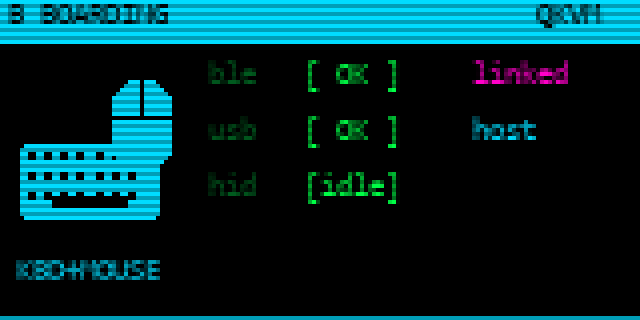
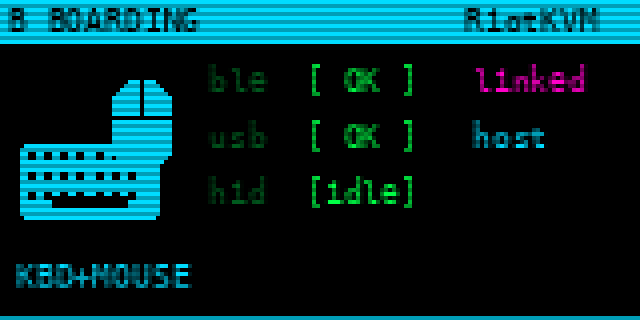
Firmware: arranque de 2 s con el texto rápido (todo legible hacia 0,8 s) y la calavera parpadeando el último medio segundo; previsualización regenerada

diff --git a/tools/preview_splash.py b/tools/preview_splash.py
@@ -21,7 +21,7 @@ def font(cands, size, fallback):
 F = font([("C:/Windows/Fonts/consola.ttf", 0), ("/System/Library/Fonts/Menlo.ttc", 0)], 8, ImageFont.load_default())   # Windows o macOS
 F2 = font([("C:/Windows/Fonts/consolab.ttf", 0), ("/System/Library/Fonts/Menlo.ttc", 1)], 14, F)
 IM = None
-SPLASH_MS, ANIM_MS = 2600, 1200
+SPLASH_MS, ANIM_MS = 2000, 2000
 # TomThumb (GFXfont de LovyanGFX): glifos reales para la firma
 TT = None
 _tt = os.path.join(root, ".pio", "libdeps", "tdongle-s3", "LovyanGFX", "src", "lgfx", "Fonts", "GFXFF", "TomThumb.h")
@@ -93,19 +93,20 @@ def v1(t):
 BAYER = [[0,8,2,10],[12,4,14,6],[3,11,1,9],[15,7,13,5]]
 def v2(t):
     im = Image.new("RGB", (W, H)); d = ImageDraw.Draw(im)
-    lines = [("> boot", 0, GREEN), ("[ OK ] usb", 150, GREEN), ("[ OK ] hid", 300, GREEN), ("[ OK ] sd", 450, GREEN), ("[ OK ] ble", 600, GREEN)]
+    lines = [("> boot", 0, 8), ("[ OK ] usb", 80, 6), ("[ OK ] hid", 160, 6), ("[ OK ] sd", 240, 6), ("[ OK ] ble", 320, 6)]
     y = 4
-    for s, t0, c in lines:
-        typed(d, s, 3, y, t, t0, 14, c); y += 11
-    if t >= 750: d.rectangle((3, y + 2, 8, y + 9), fill=GREEN) if (t // 120) % 2 == 0 and t < 1000 else None
-    lvl = 0 if t < 450 else min(16, int((t - 450) / 25))     # 0..16 umbral de tramado
+    for s, t0, per in lines:
+        typed(d, s, 3, y, t, t0, per, GREEN); y += 11
+    if 450 <= t < 650 and (t // 100) % 2 == 0: d.rectangle((3, y + 2, 8, y + 9), fill=GREEN)
+    off = t >= SPLASH_MS - 500 and ((t - (SPLASH_MS - 500)) // 125) % 2 == 0   # ultimo 0,5 s: la calavera parpadea
+    lvl = 0 if (t < 250 or off) else min(16, int((t - 250) / 20))     # 0..16 umbral de tramado
     sk = Image.new("RGB", (W, H)); sd = ImageDraw.Draw(sk); skull(sd, 90, 8)
     px, sp = im.load(), sk.load()
     for yy in range(8, 72):
         for xx in range(90, 154):
             if sp[xx, yy] != (0, 0, 0) and BAYER[yy % 4][xx % 4] < lvl: px[xx, yy] = sp[xx, yy]
-    if t >= 850: eyes(d, 90, 8, CY if t < 1050 else MAG, 1000 <= t < 1060)
-    if t >= 900: typed(d, "RiotKVM", 3, 62, t, 900, 40, AMB)
+    if t >= 570 and not off: eyes(d, 90, 8, CY if t < 750 else MAG, False)
+    if t >= 600: typed(d, "RiotKVM", 3, 62, t, 600, 20, AMB)
     made_by(d, 73, t)
     return im
 
@@ -127,7 +128,7 @@ def v3(t):
 
 out = os.path.join(root, "docs", "ui"); os.makedirs(out, exist_ok=True)
 for name, fn in (("v1_glitch", v1), ("v2_bios", v2), ("v3_apertura", v3)):
-    ts = [r * ANIM_MS // SPLASH_MS for r in range(0, SPLASH_MS + 1, 40)]   # fotogramas cada 40 ms reales
+    ts = [r * ANIM_MS // SPLASH_MS for r in range(0, SPLASH_MS, 40)]   # fotogramas cada 40 ms reales
     fr = [scan(fn(t)).resize((W * 4, H * 4), Image.NEAREST) for t in ts]
     fr[0].save(os.path.join(out, "splash_%s.gif" % name), save_all=True, append_images=fr[1:] + [fr[-1]] * 20, duration=40, loop=0)
     pick = [0, 12, 18, 24, 30, 36, 42, len(ts) - 1]; sel = [scan(fn(ts[i])) for i in pick]

diff --git a/src/ui_lcd.cpp b/src/ui_lcd.cpp
@@ -137,7 +137,7 @@ int bootLines(const char** o) {
   return n;
 }
 
-// ---- splash (UI_SPLASH_VARIANT: 1 glitch, 2 BIOS, 3 apertura). ~2,6 s, una sola vez ----
+// ---- splash (UI_SPLASH_VARIANT: 1 glitch, 2 BIOS, 3 apertura). ~2 s, una sola vez ----
 void splashV1(uint32_t t) {
   uint32_t fr = t / 40;
   int rows = t >= 380 ? 64 : (int)(t * 64 / 380), gl = t < 520 ? (int)((520 - t) / 70) + 1 : 0;
@@ -151,15 +151,18 @@ void splashV1(uint32_t t) {
   char m[12]; snprintf(m, sizeof m, "mode %c", kvmmode::letter()); typed(m, 76, 68, t, 1050, 30, C_AMBER);
   madeBy(1, t);                                         // arriba a la derecha: abajo esta "mode C"
 }
+// tiempos en ms reales (UI_SPLASH_MS = 2000): el texto se escribe rapido y queda completo hacia los 800 ms para poder
+// leerlo; los ultimos 500 ms la calavera parpadea (4 fases de 125 ms, acaba visible)
 void splashV2(uint32_t t) {
   const char* ln[4]; int n = bootLines(ln);
-  typed("> boot", 3, 4, t, 0, 14, C_GREEN);
-  for (int i = 0; i < n; i++) typed(ln[i], 3, 15 + 11 * i, t, 150 * (i + 1), 14, C_GREEN);
-  if (t >= 750 && t < 1000 && ((t / 120) & 1) == 0) FR(3, 15 + 11 * n + 2, 6, 8, C_GREEN);
-  int lvl = t < 450 ? 0 : (int)((t - 450) / 25); if (lvl > 16) lvl = 16;
-  if (lvl) skullDither(90, 8, lvl);
-  if (t >= 850) eyes(90, 8, t < 1050 ? C_CYAN : C_MAG, t >= 1000 && t < 1060);
-  typed("RiotKVM", 3, 62, t, 900, 25, C_AMBER, 2);
+  typed("> boot", 3, 4, t, 0, 8, C_GREEN);
+  for (int i = 0; i < n; i++) typed(ln[i], 3, 15 + 11 * i, t, 80 * (i + 1), 6, C_GREEN);
+  if (t >= 450 && t < 650 && ((t / 100) & 1) == 0) FR(3, 15 + 11 * n + 2, 6, 8, C_GREEN);
+  bool blinkOff = t >= UI_SPLASH_MS - 500 && (((t - (UI_SPLASH_MS - 500)) / 125) & 1) == 0;
+  int lvl = t < 250 ? 0 : (int)((t - 250) / 20); if (lvl > 16) lvl = 16;
+  if (lvl && !blinkOff) skullDither(90, 8, lvl);
+  if (t >= 570 && !blinkOff) eyes(90, 8, t < 750 ? C_CYAN : C_MAG, false);
+  typed("RiotKVM", 3, 62, t, 600, 20, C_AMBER, 2);
   madeBy(73, t);                                        // abajo a la derecha: bajo la calavera (filas 8..71), a la derecha del titulo (x <= 87)
 }
 void splashV3(uint32_t t) {

diff --git a/src/ui_lcd.h b/src/ui_lcd.h
@@ -17,11 +17,12 @@
 #define UI_SPLASH_VARIANT 2    // 1 = glitch, 2 = BIOS (defecto), 3 = apertura
 #endif
 #ifndef UI_SPLASH_MS
-#define UI_SPLASH_MS 2600      // duracion del splash de arranque (antes 1200 y 1800: la animacion va ~2,2x mas lenta; solo la pantalla:
+#define UI_SPLASH_MS 2000      // duracion del splash de arranque: texto rapido, todo legible hacia 0,8 s, y el ultimo 0,5 s la calavera
+                               // parpadea (variante 2). Solo la pantalla:
                                // USB ya ha arrancado y BLE arranca a los 3 s desde loop(), sin esperar a la UI)
 #endif
 #ifndef UI_SPLASH_ANIM_MS
-#define UI_SPLASH_ANIM_MS 1200 // escala de tiempos con la que estan escritas las variantes (splashV1..V3)
+#define UI_SPLASH_ANIM_MS UI_SPLASH_MS // tiempo real (V2 esta escrita en ms reales; V1/V3, en 1200 ms, terminan antes y se quedan quietas)
 #endif
 
 namespace ui {
